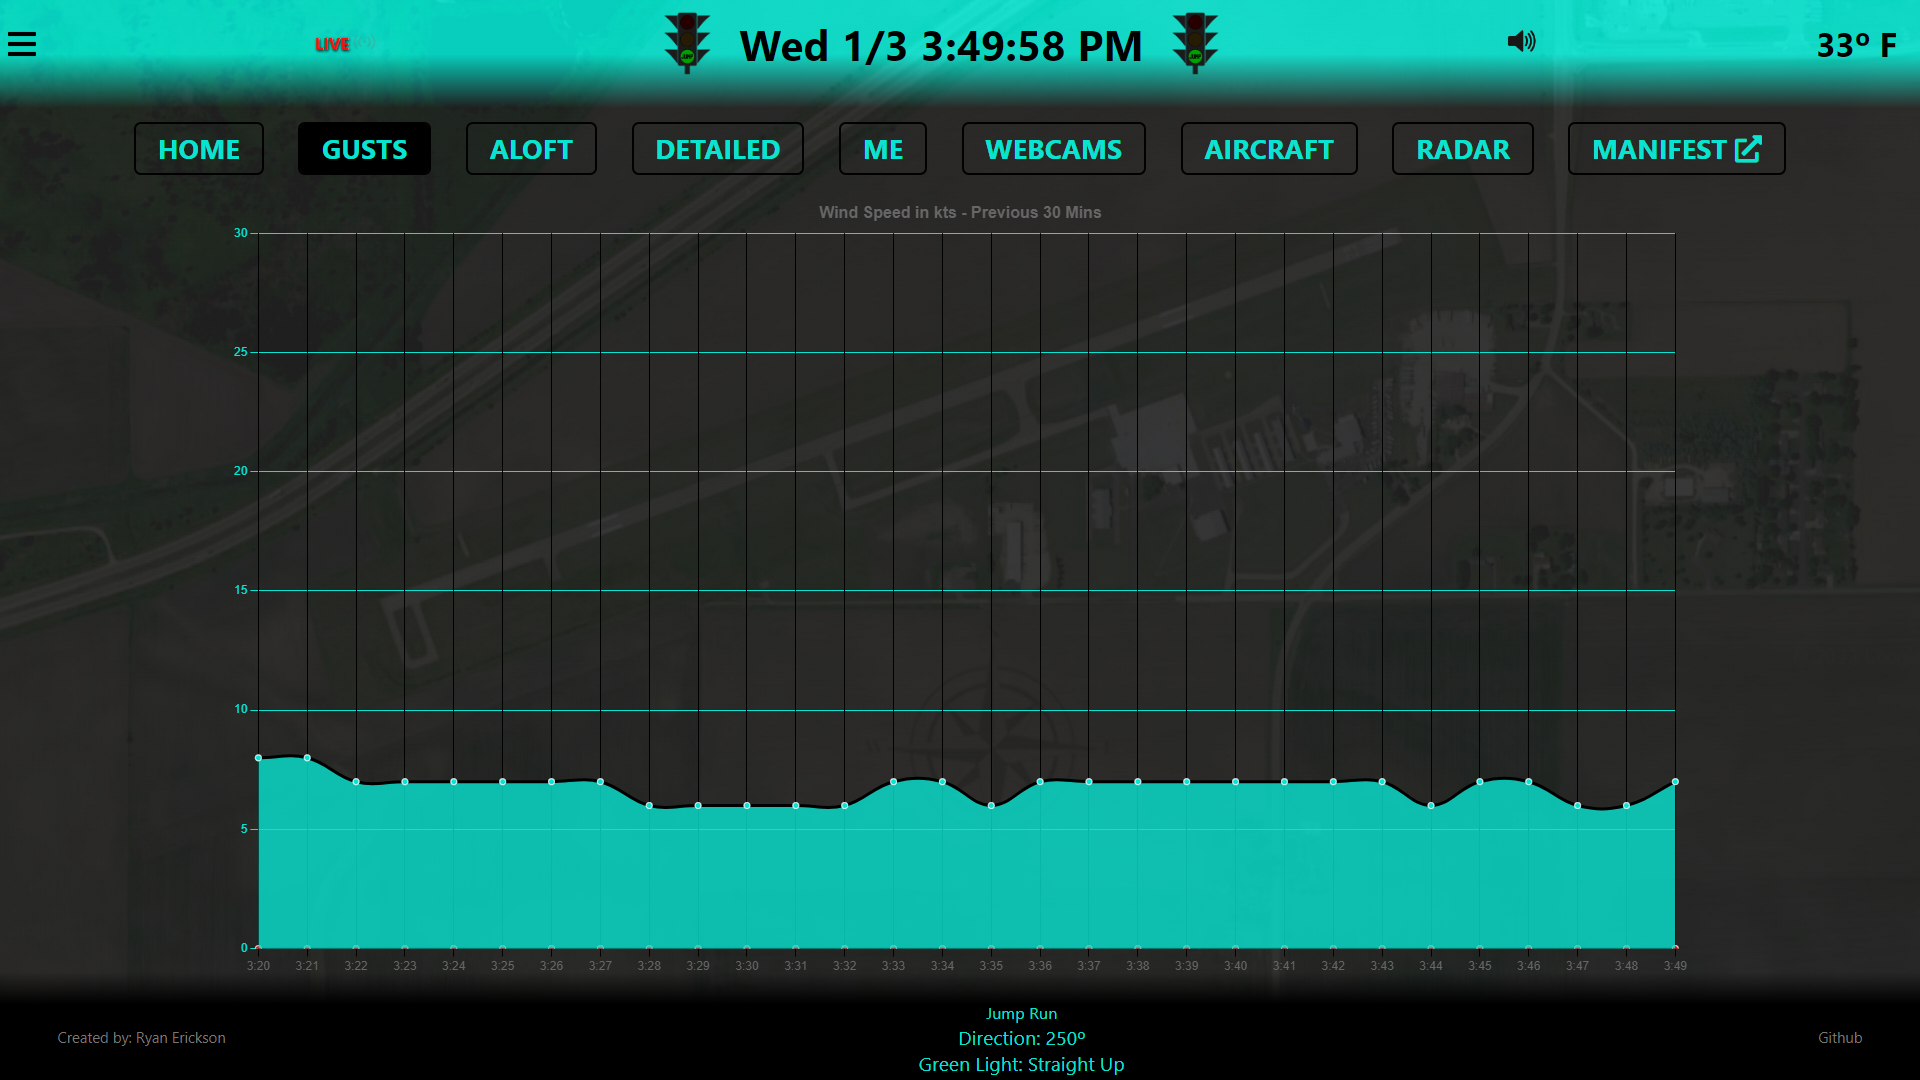
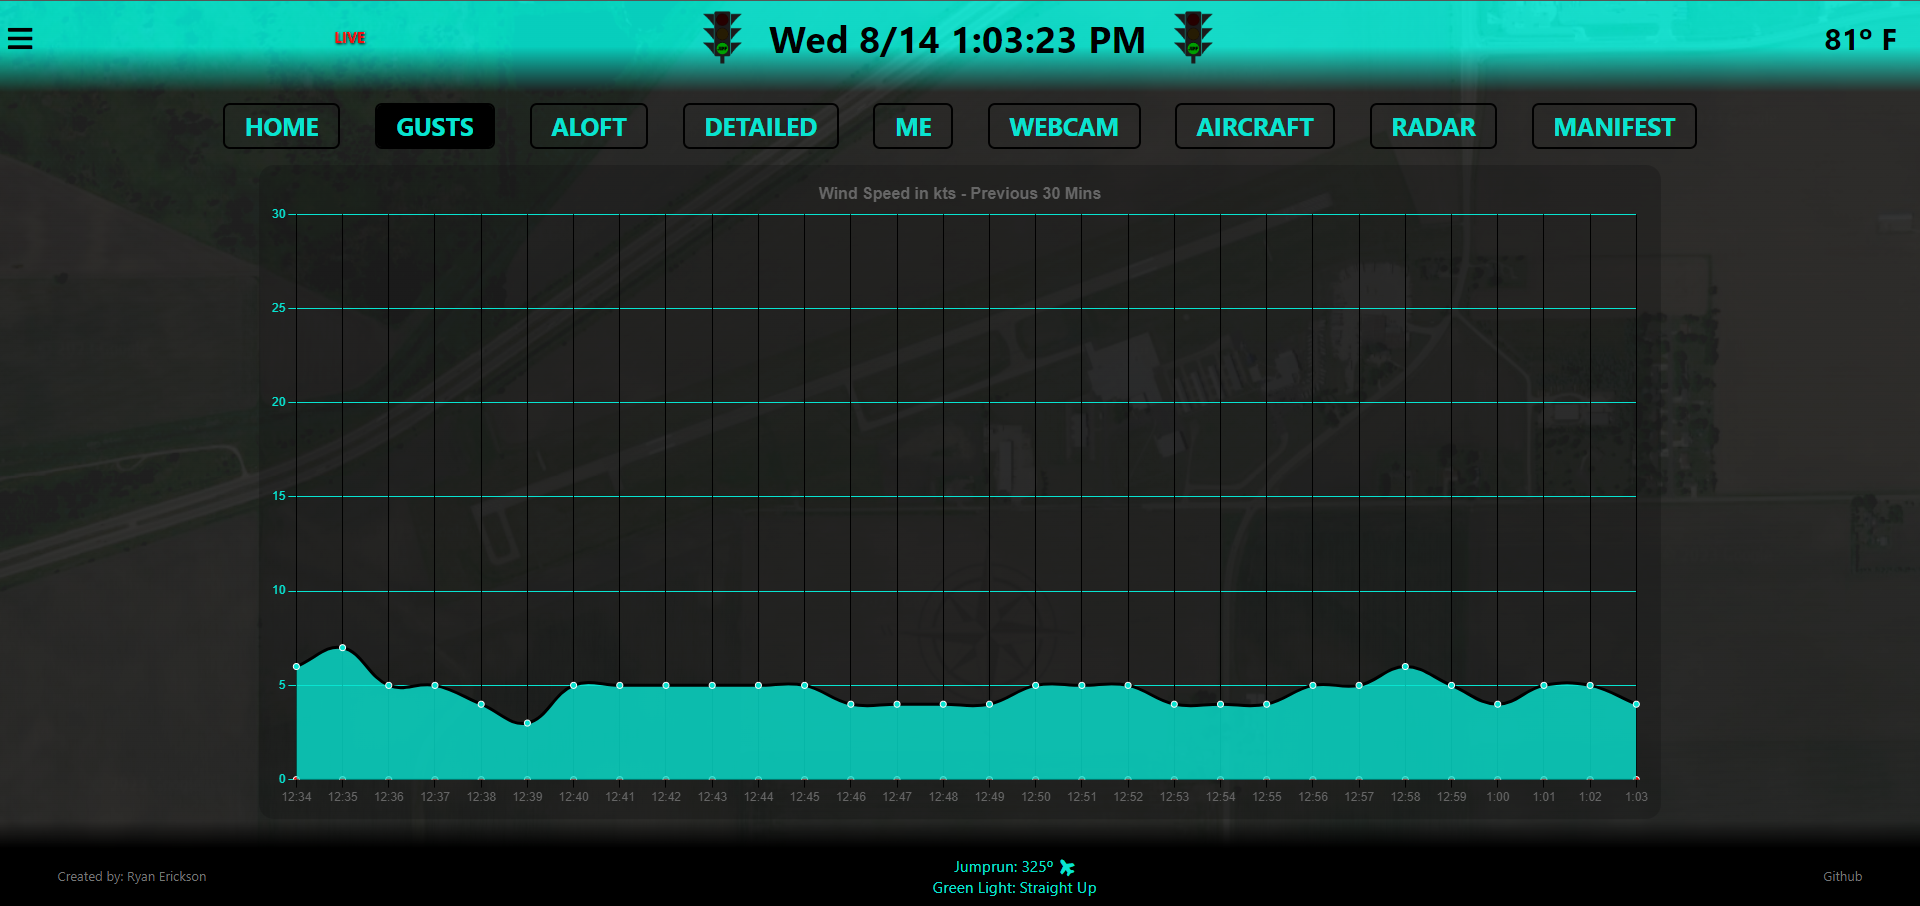
readme pics update, meta:og pic

diff --git a/index.html b/index.html
@@ -13,9 +13,9 @@
     <meta property="og:title" content="CSC Weather App">
     <meta property="og:type" content="website" />
     <meta property="og:description" content="Live weather updates for Chicagoland Skydiving Center">
-    <meta property="og:image" content="https://raw.githubusercontent.com/RyanFullStack/csc-weather-app/main/src/images/readme/Home.png">
-    <meta property="og:image:width" content="1920" />
-    <meta property="og:image:height" content="906" />
+    <meta property="og:image" content="https://raw.githubusercontent.com/RyanFullStack/csc-weather-app/main/src/images/readme/Meta.jpg">
+    <meta property="og:image:width" content="1280" />
+    <meta property="og:image:height" content="720" />
     <meta property="og:url" content="https://cscwx.com">
     <meta property="og:site_name" content="CSC Weather App">
     <title>CSC WEATHER</title>
